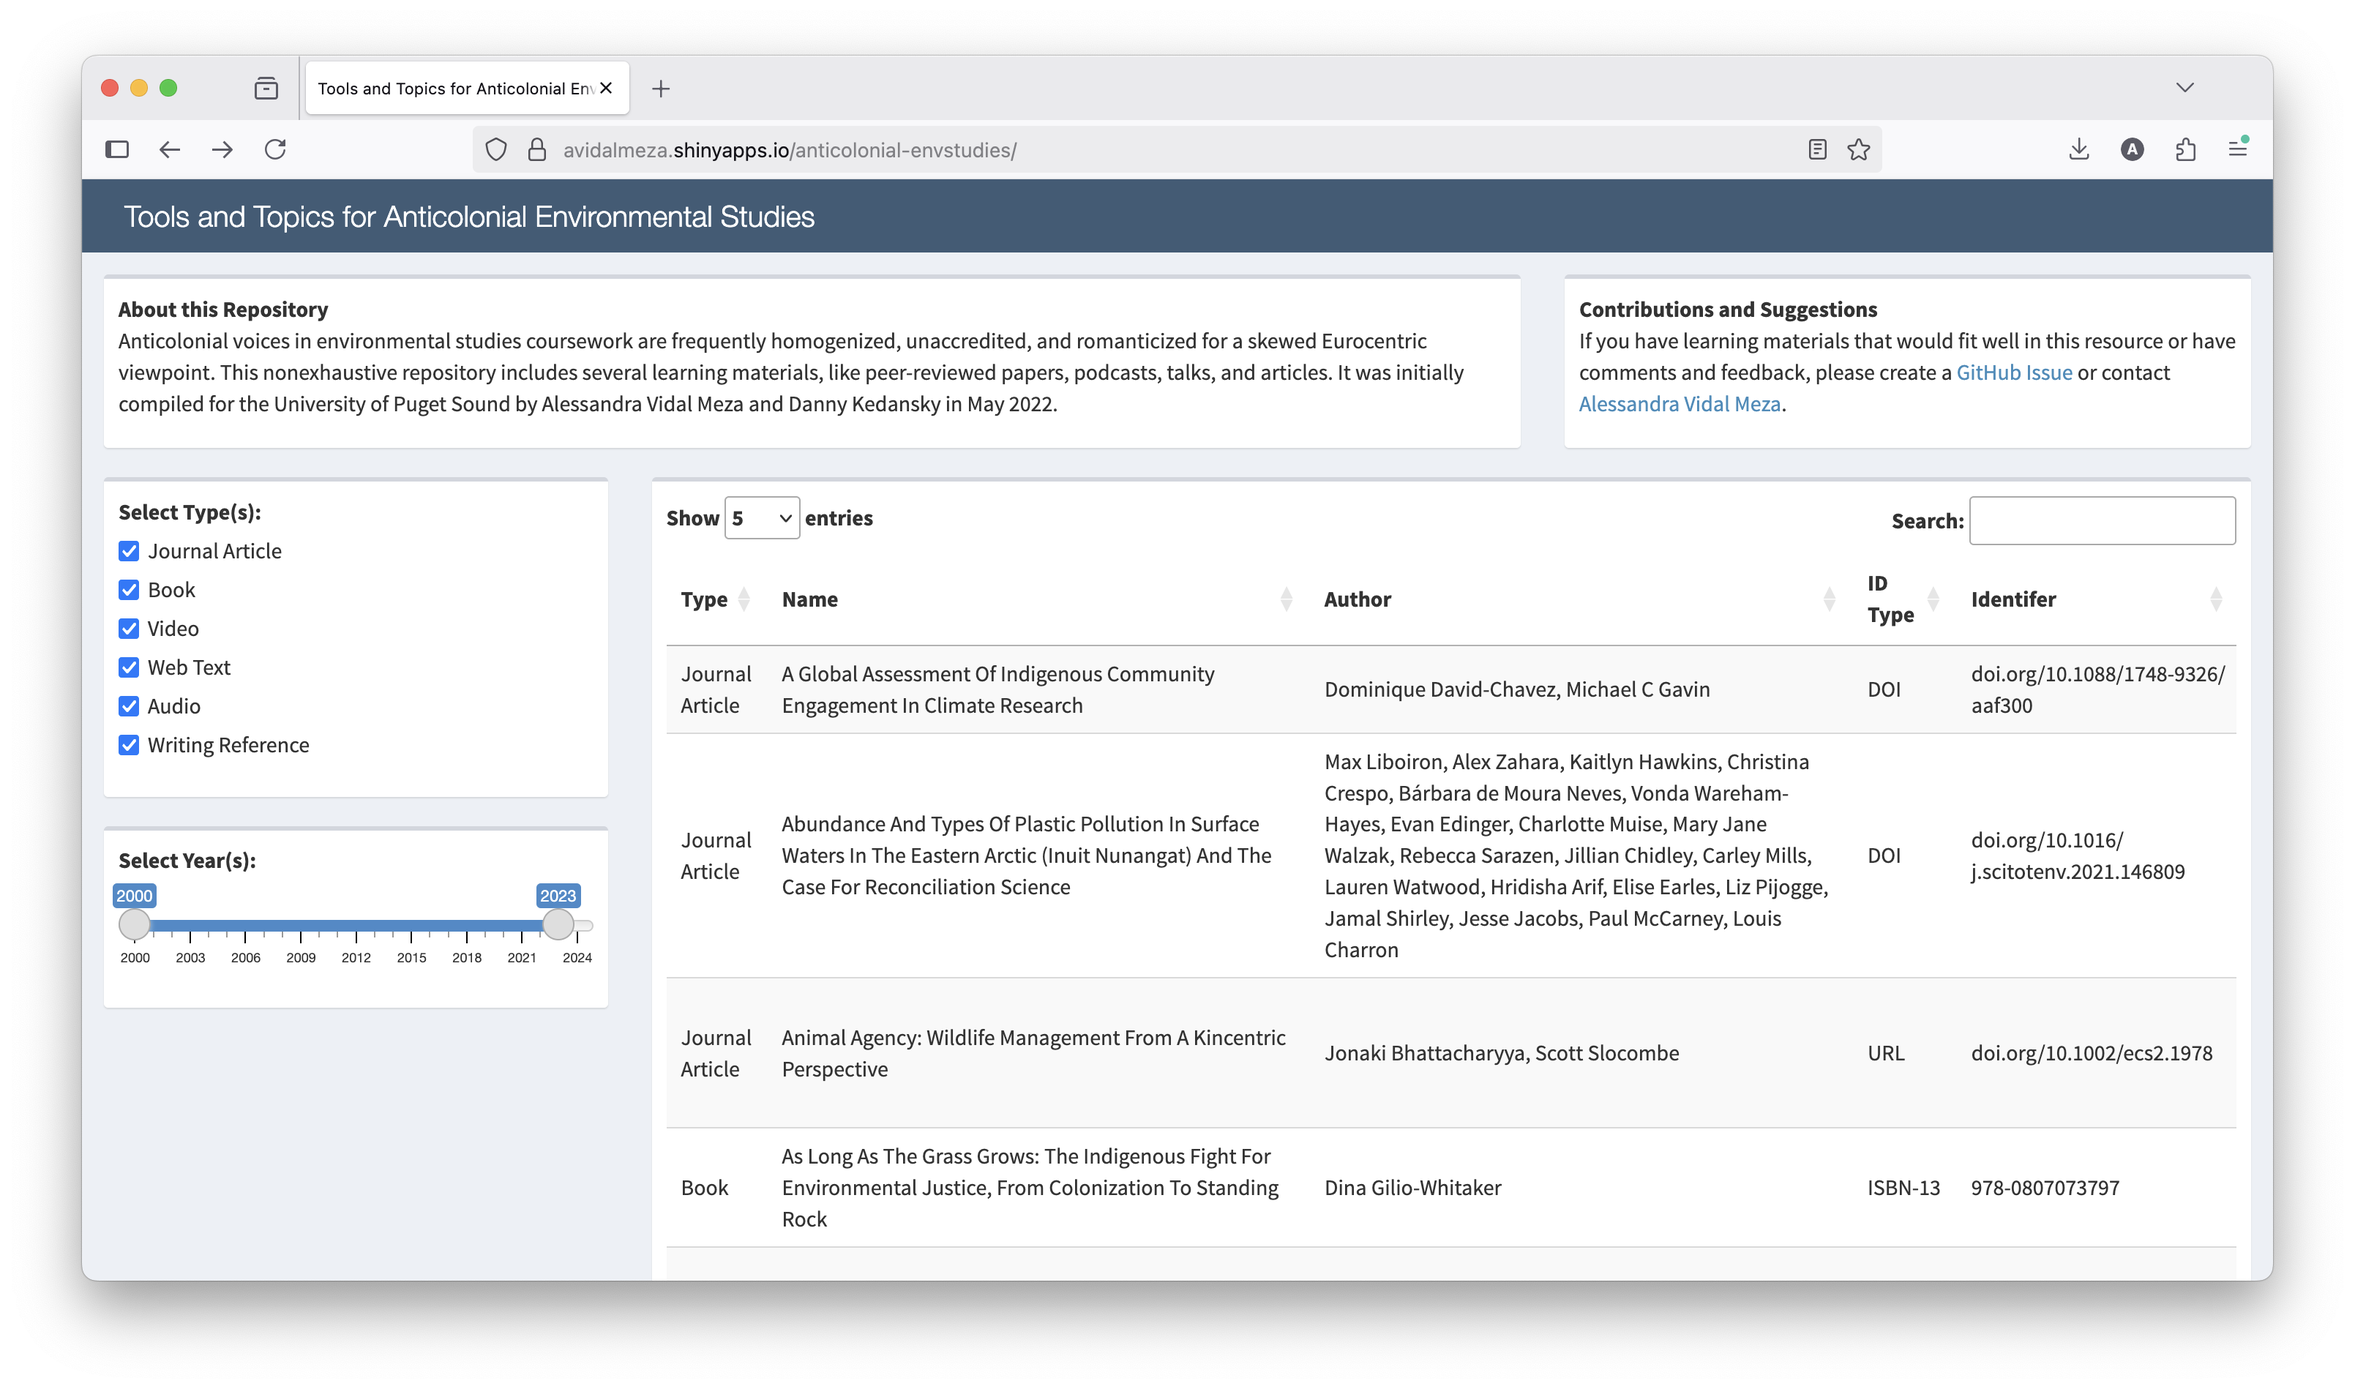
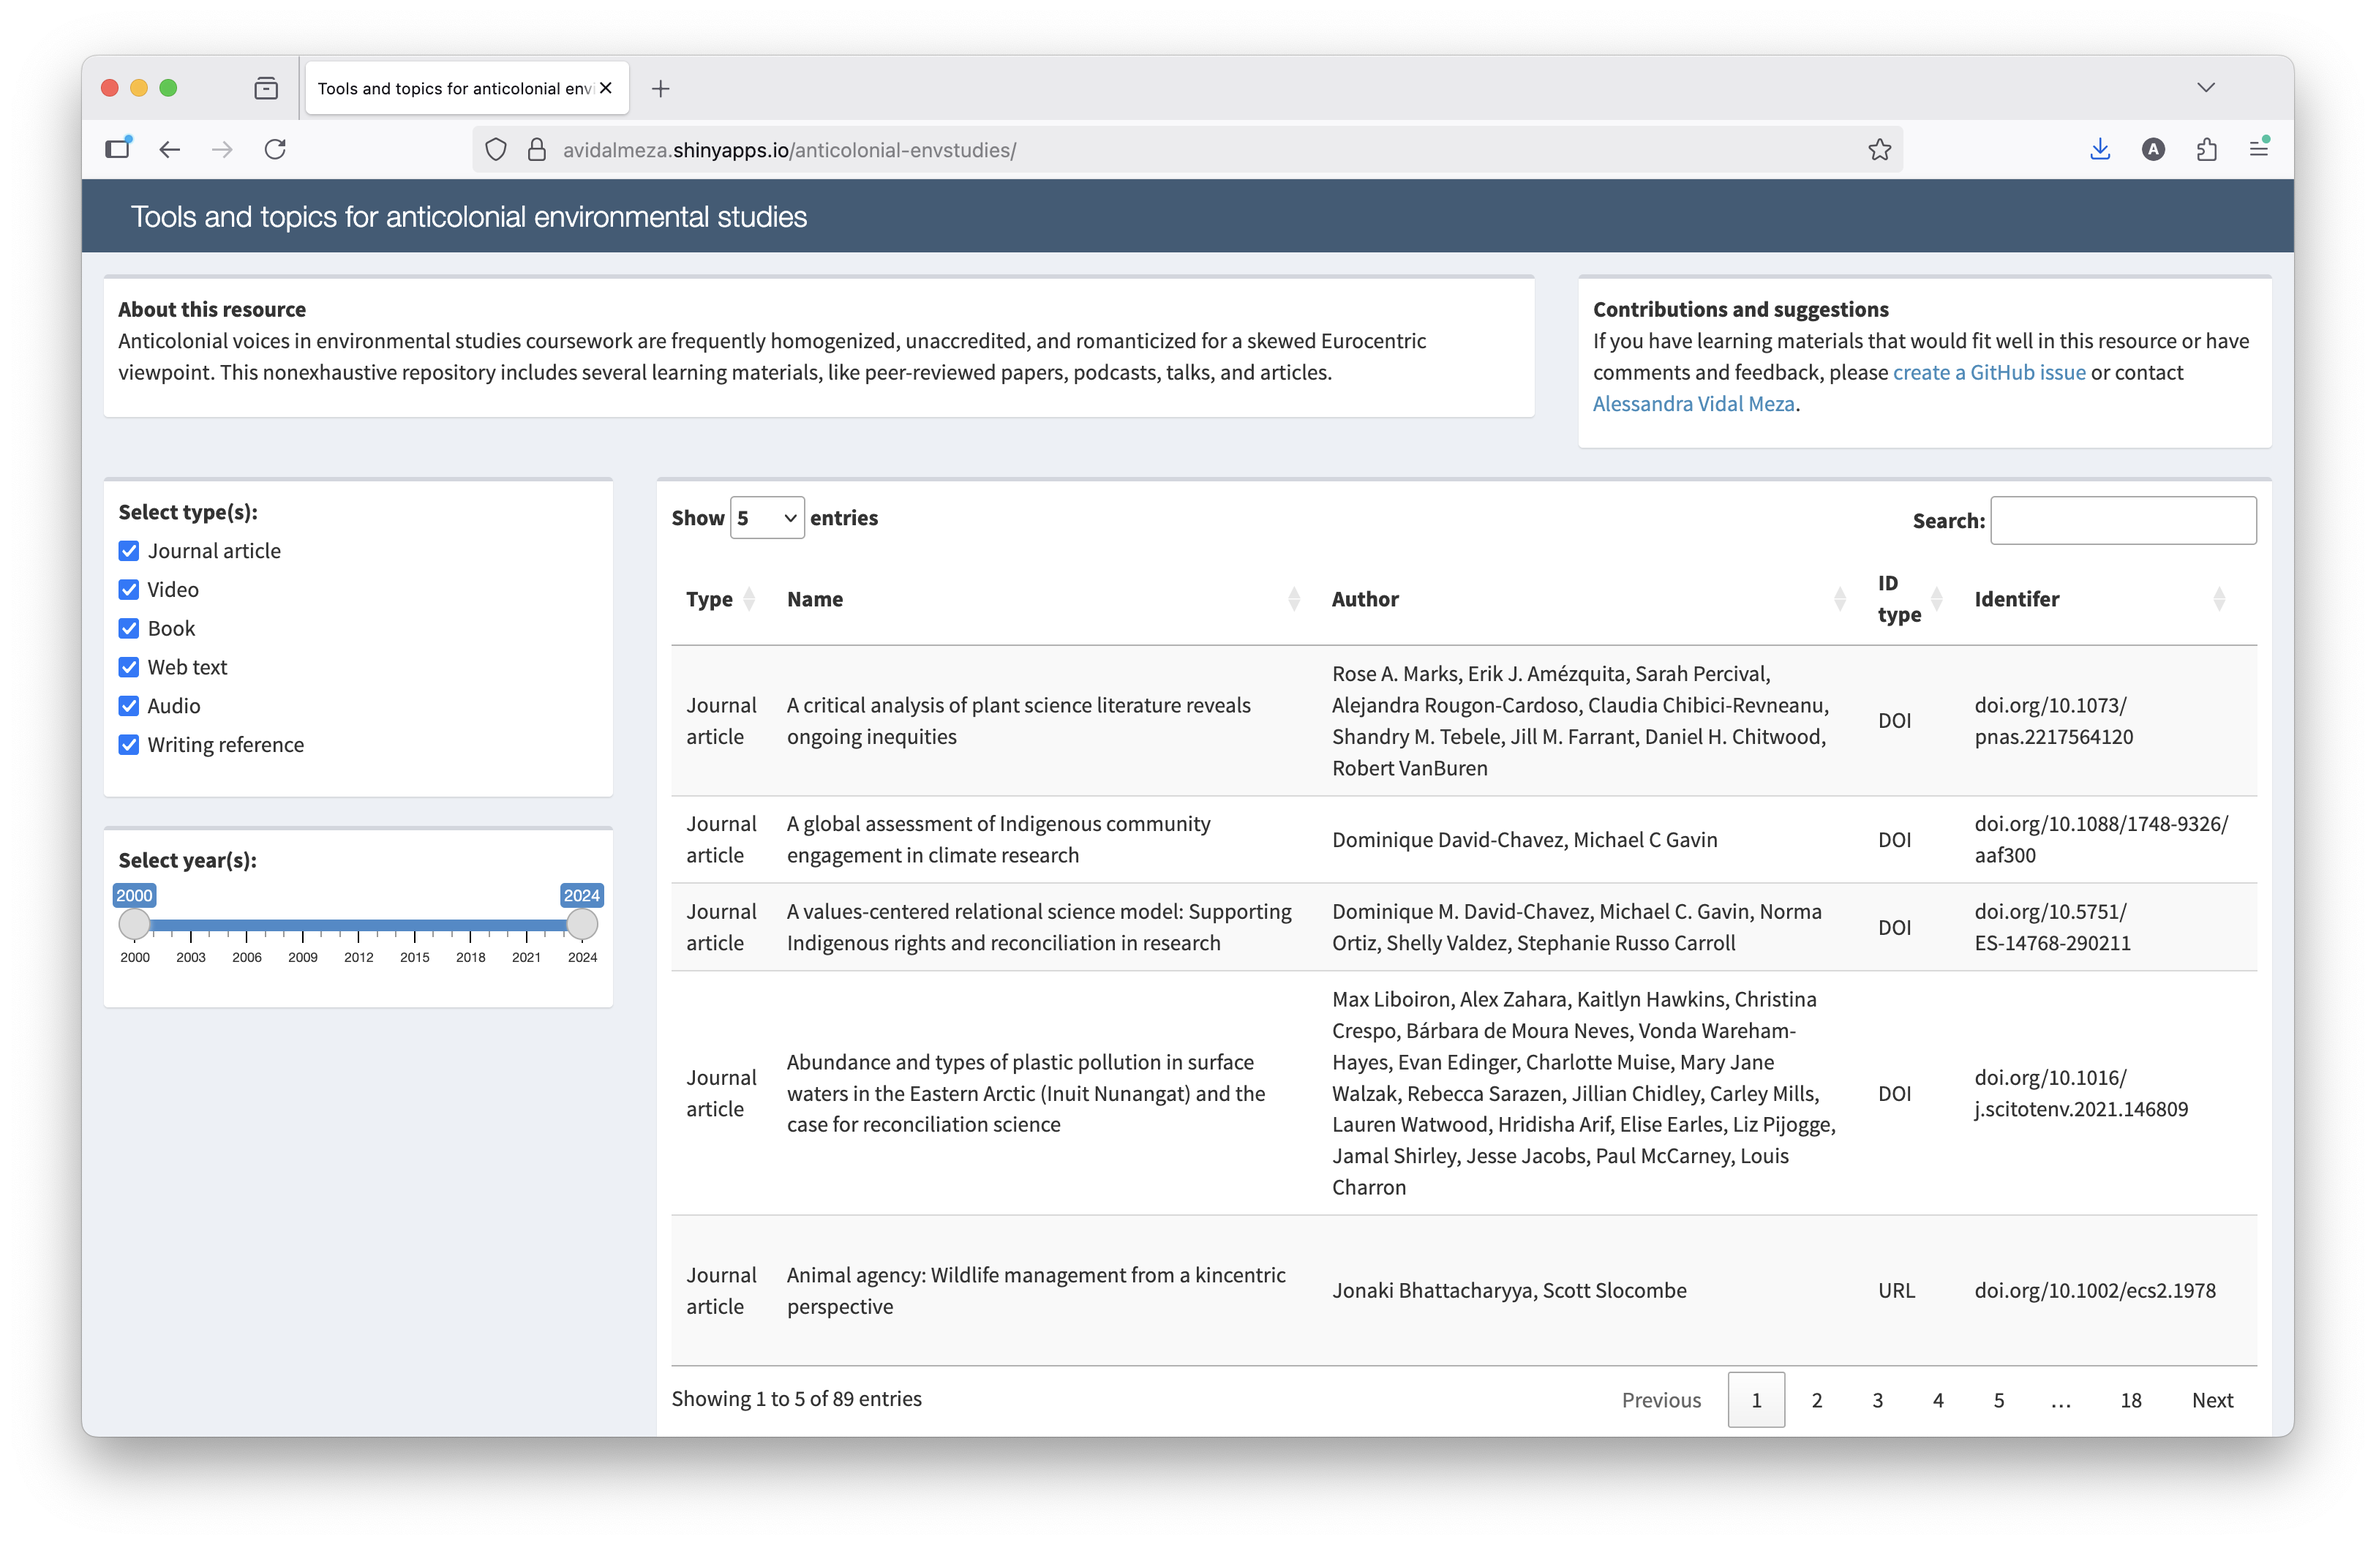
Fix shinyapps.io deployment

diff --git a/README.md b/README.md
@@ -1,4 +1,4 @@
-# Tools and Topics for Anticolonial Environmental Studies
+# Tools and topics for anticolonial environmental studies
+This non-exhaustive database of anticolonial environmental studies includes diverse learning materials such as peer-reviewed papers, podcasts, talks, and articles. Originally compiled for the University of Puget Sound's Environmental Studies & Sciences department by Alessandra Vidal Meza and Danny Kedansky in May 2022, it was presented at the University of Georgia's Integrative Conservation Conference in 2024.
 
 ![](images/anticolonial-envstudies.png)
-[Tools and Topics for Anticolonial Environmental Studies](https://avidalmeza.shinyapps.io/anticolonial-envstudies/) is a nonexhaustive repository and includes several learning materials, like peer-reviewed papers, podcasts, talks, and articles. It was initially compiled for the University of Puget Sound by Alessandra Vidal Meza and Danny Kedansky in May 2022. Presented at the University of Georgia's Integrative Conservation Conference 2024.

diff --git a/text/about.md b/text/about.md
@@ -1,3 +1,3 @@
-**About this Repository**
+**About this resource**
 <br>
-Anticolonial voices in environmental studies coursework are frequently homogenized, unaccredited, and romanticized for a skewed Eurocentric viewpoint. This nonexhaustive repository includes several learning materials, like peer-reviewed papers, podcasts, talks, and articles. It was initially compiled for the University of Puget Sound by Alessandra Vidal Meza and Danny Kedansky in May 2022.
+Anticolonial voices in environmental studies coursework are frequently homogenized, unaccredited, and romanticized for a skewed Eurocentric viewpoint. This nonexhaustive repository includes several learning materials, like peer-reviewed papers, podcasts, talks, and articles.

diff --git a/text/contact.md b/text/contact.md
@@ -1,3 +1,3 @@
-**Contributions and Suggestions**
+**Contributions and suggestions**
 <br>
-If you have learning materials that would fit well in this resource or have comments and feedback, please create an [issue](https://github.com/avidalmeza/anticolonial-envstudies) or contact [Alessandra Vidal Meza](mailto:avidalmeza@bren.ucsb.edu).
+If you have learning materials that would fit well in this resource or have comments and feedback, please [create a GitHub issue](https://github.com/avidalmeza/anticolonial-envstudies) or contact [Alessandra Vidal Meza](mailto:avidalmeza@bren.ucsb.edu).
